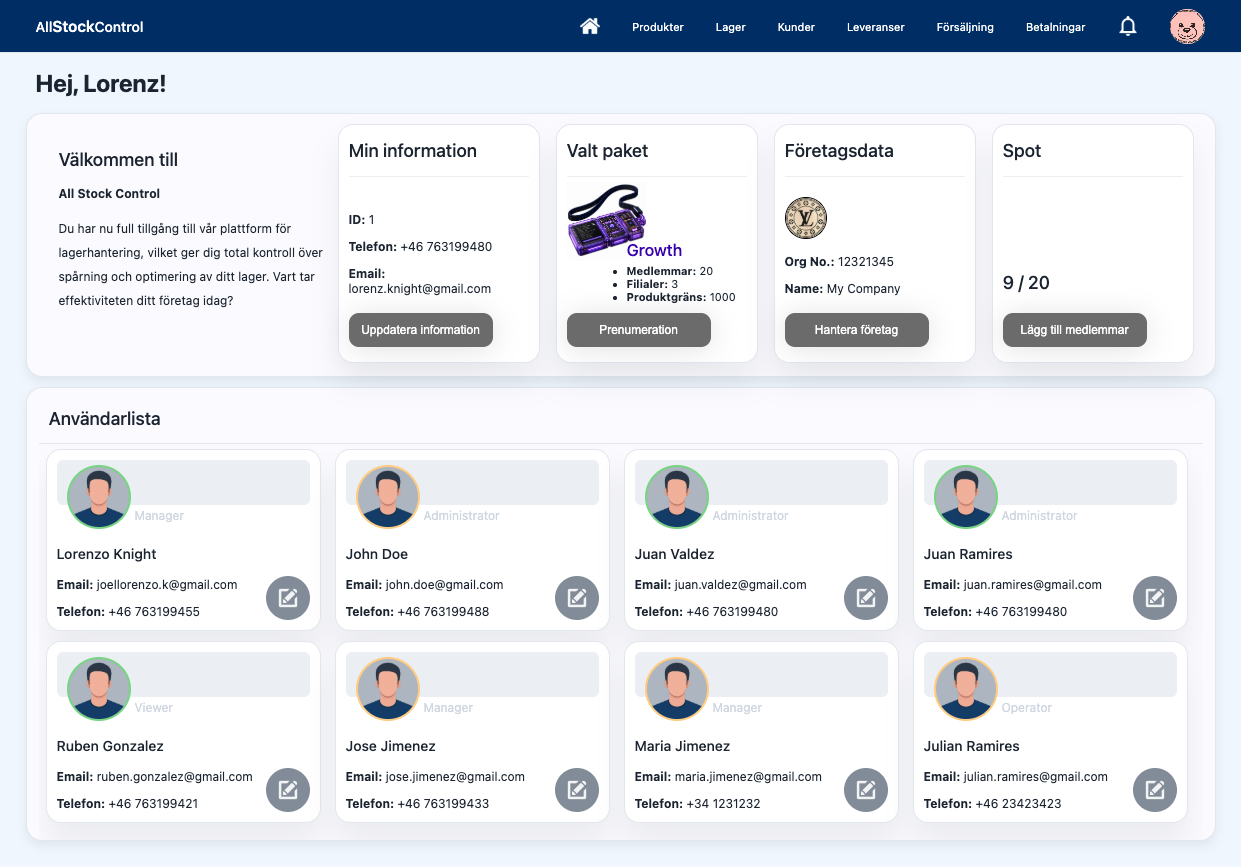
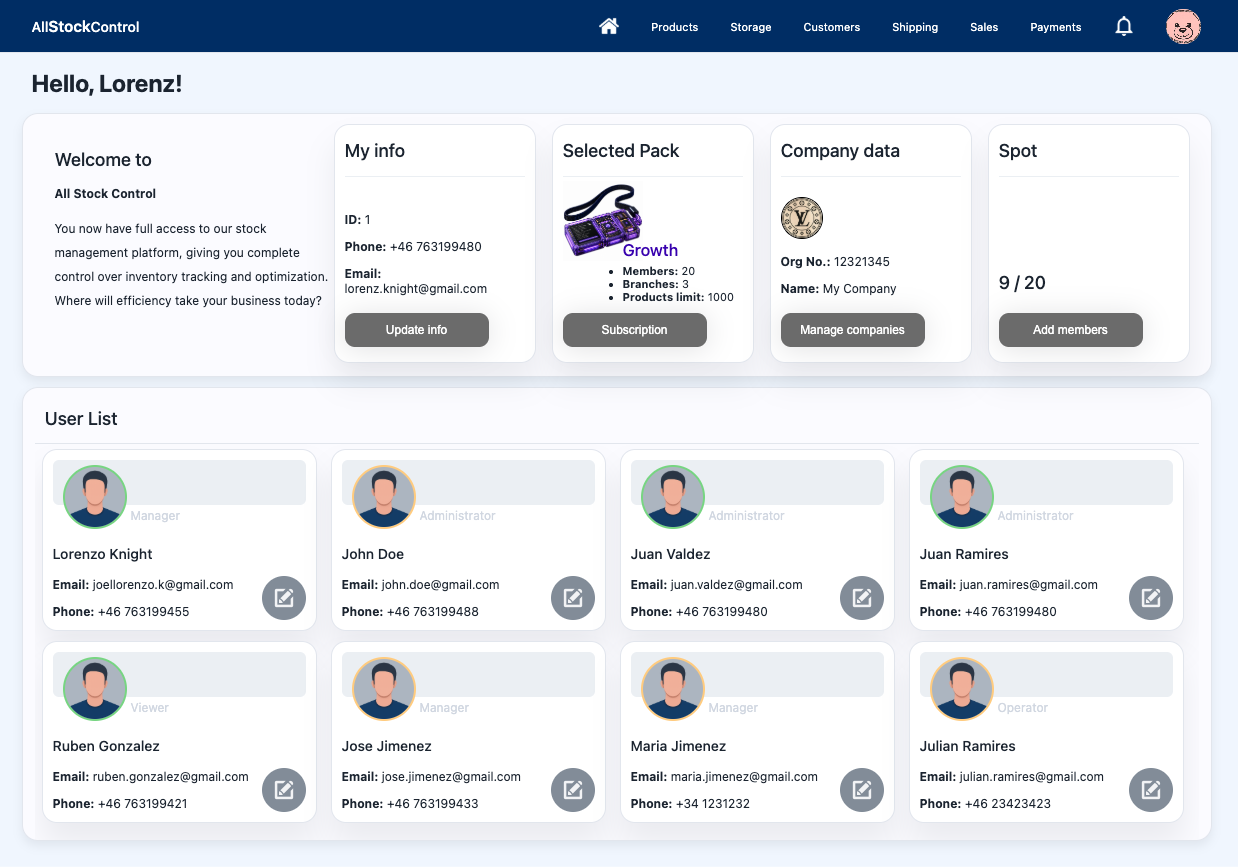
README changes

diff --git a/README.md b/README.md
@@ -22,6 +22,14 @@ The project also involves continuously evolving and refactoring the platform as 
 
 ![AllStockControl Dashboard](docs/screenshots/dashboard.png)
 
+### Product Management
+
+![AllStockControl Product Management](docs/screenshots/products.png)
+
+### Reports
+
+![AllStockControl Reports](docs/screenshots/reports.png)
+
 ## Tech Stack
 
 ### Backend
